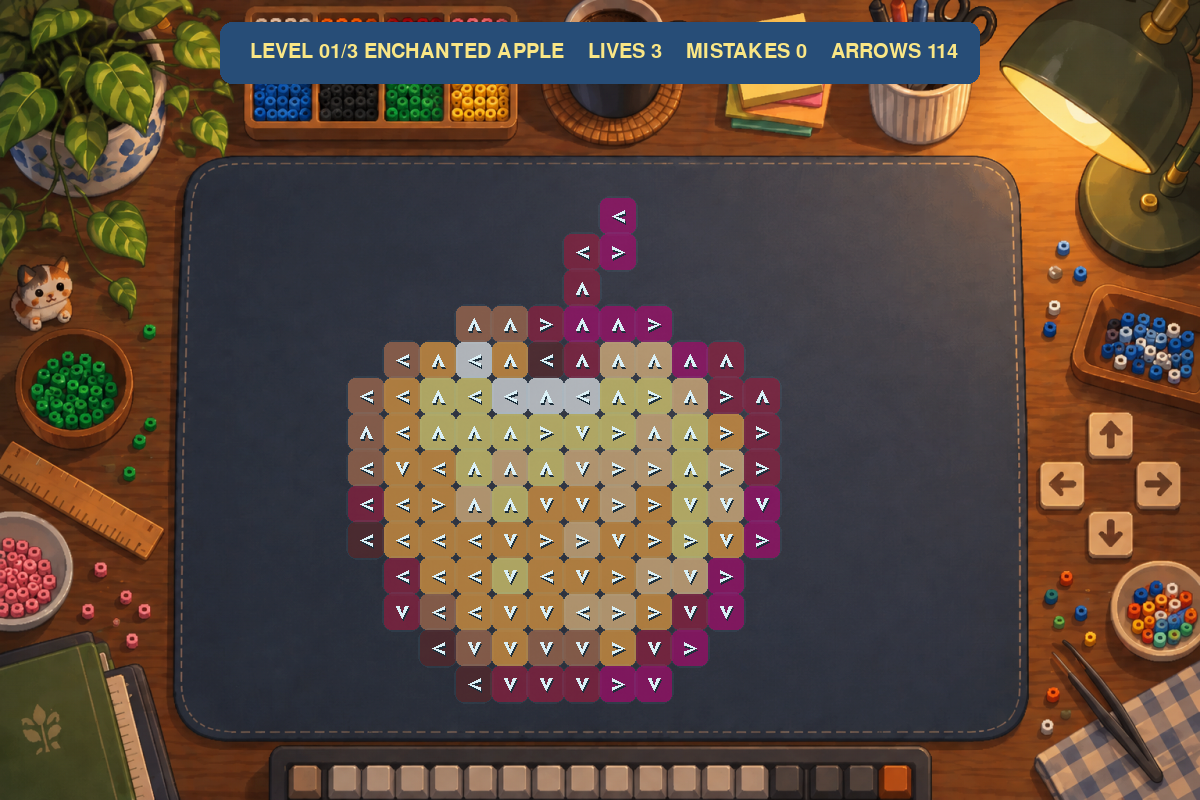
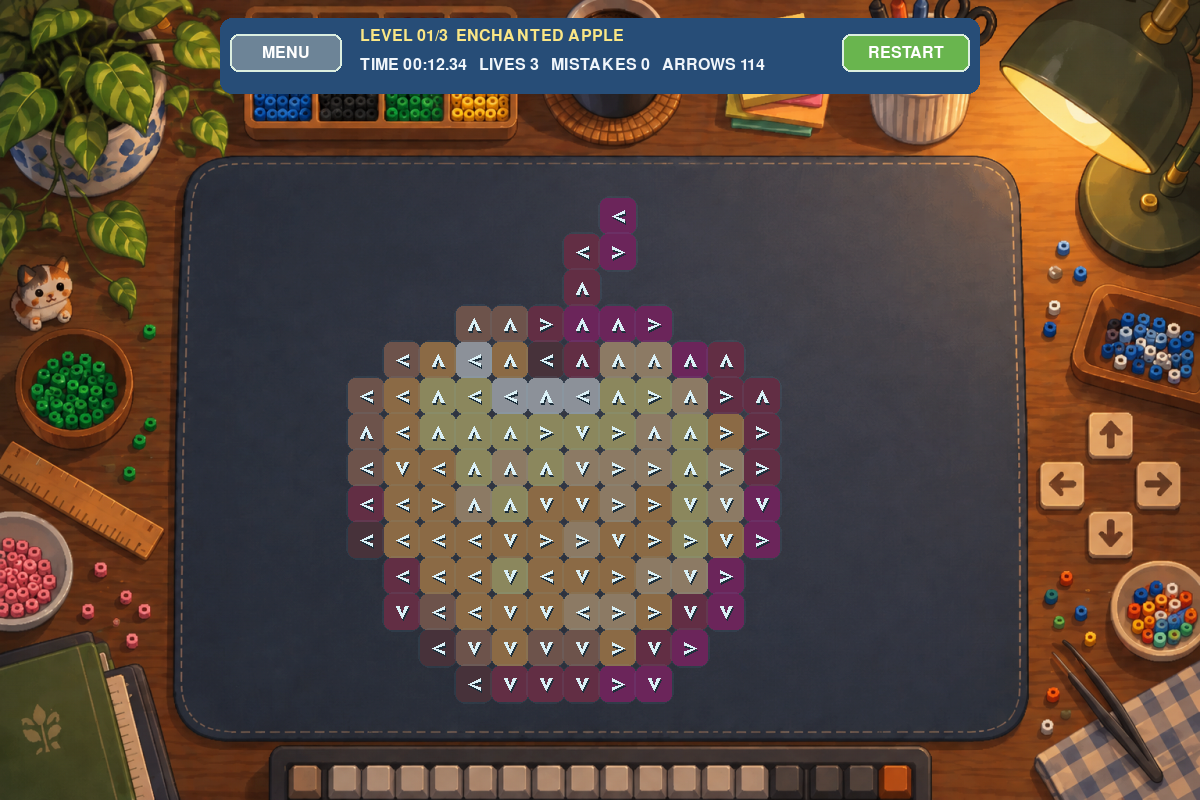
docs: document P1 scoring controls and test evidence

Changed region(s): [[0.3083, 0.4062, 0.6475, 0.8438], [0.185, 0.0, 0.8325, 0.125], [0.4933, 0.2812, 0.5242, 0.3125]]

diff --git a/docs/course-report.md b/docs/course-report.md
@@ -12,14 +12,15 @@
 
 ## 1. 项目展示
 
-项目启动后先显示带装饰箭头棋盘的主界面，点击唯一的 `START GAME` 按钮进入第一关。游戏窗口为 1200×800，中心区域是带隐藏像素颜色的箭头图案；三关依次为 16×16 附魔金苹果、16×16 精灵球和 18×17 月亮 Hello Kitty。成功点击后，箭头沿方向飞出窗口；被阻挡时箭头移动到首个阻挡箭头、撞击变红并回退。
+项目启动后先显示带装饰箭头棋盘的主界面，点击唯一的 `START GAME` 按钮进入第一关。游戏窗口为 1200×800，中心区域是带隐藏像素颜色的箭头图案；三关依次为 16×16 附魔金苹果、16×16 精灵球和 18×17 月亮 Hello Kitty。成功点击后，箭头沿方向飞出窗口；被阻挡时箭头移动到首个阻挡箭头、撞击变红并回退。对局 HUD 显示计时、生命、失误、剩余箭头以及重开/主菜单按钮；通关页显示冻结的时间、失误和星级。
 
 ![游戏运行截图](assets/runtime-gameplay.png)
 
 ![开始界面](assets/runtime-start.png)
 ![通关结果界面](assets/runtime-result.png)
+![失败界面](assets/runtime-failed.png)
 
-建议发布博客时补充：开始界面截图、碰撞变红截图、失败面板截图、最终通关截图，以及一段展示三关切换的 GIF 或视频。
+建议发布博客时补充：碰撞变红截图、最终通关截图，以及一段展示三关切换的 GIF 或视频。
 
 ## 2. 项目介绍
 
@@ -41,6 +42,8 @@
 路径检测从点击位置沿方向增量遍历：向上使用 `(-1, 0)`，向下使用 `(1, 0)`，向左使用 `(0, -1)`，向右使用 `(0, 1)`。遇到第一个箭头就返回 `blocked` 和 blocker 坐标；越过棋盘边界仍未找到箭头则返回 `clear`。
 
 逻辑判定和动画分离。点击成功时 Board 立即清除箭头，因此动画期间仍可以点击其他合法箭头；碰撞动画期间原箭头仍在 Board 中，只有动画结束时才把起点加入 `error_cells`，保证“撞击后变红，回退后保持红色”的时间顺序。
+
+计时由 `Game` 的 `elapsed_seconds` 统一维护，只在 `PLAYING` 状态累加；进入开始页、通关页或失败页后自动冻结，重开、下一关和返回菜单都会清零。每关有固定的三星/二星时间阈值：零失误并在三星时限内为 3 星；一次失误内且在二星时限内为 2 星；其余通关记为 1 星。评分作为不可变通关结果保存，因此不会随着结果页面停留时间继续变化。
 
 关卡的设计采用“先确定图案、再冻结布局”的方式：先用附魔金苹果、精灵球或 Hello Kitty 的颜色掩码确定可见轮廓；生成工具在仍存在的箭头中选择一条无阻挡射线，把该坐标加入清除顺序并记录方向。重复到所有格子被选中后，得到的顺序天然可通关。工具使用固定种子保证可复现，最终的箭头网格和通关顺序都写入 `levels.py` 常量，避免把随机性带进游戏运行时。
 
@@ -65,7 +68,7 @@ python -m pytest -v
 python -m compileall -q main.py src tests
 ```
 
-当前结果：**107 passed**；编译检查通过；Pygame 主循环在 dummy SDL 环境下可以正常启动、绘制并响应退出事件。
+当前结果：**132 passed**；编译检查通过；Pygame 主循环在 dummy SDL 环境下可以正常启动、绘制并响应退出事件。
 
 | 编号 | 测试内容 | 预期结果 | 实际结果 | 是否通过 |
 | --- | --- | --- | --- | --- |
@@ -76,6 +79,9 @@ python -m compileall -q main.py src tests
 | T05 | 失误次数耗尽 | 显示失败并允许重开 | `FAILED` 状态拒绝普通点击，结果按钮重开，测试通过 | 通过 |
 | T06 | 游戏进行中重新开始 | 棋盘和失误次数恢复 | `restart()` 清空动画/错误标记并恢复关卡，测试通过 | 通过 |
 | T07 | 三个拼豆关卡的固定布局 | 每次启动方向相同且存在通关顺序 | 固定种子复算、已冻结顺序逐步清空，测试通过 | 通过 |
+| T09 | 计时开始、冻结与重开 | 仅对局计时；通关/失败后冻结；重开清零 | `Game.elapsed_seconds` 状态转换测试通过 | 通过 |
+| T10 | 时间与失误星级结算 | 3/2/1 星规则正确 | 四种时间/失误组合的参数化测试通过 | 通过 |
+| T11 | 游戏中重开与返回主菜单 | 操作按钮不触发棋盘点击，状态正确复位 | 事件路由与 `return_to_menu()` 测试通过 | 通过 |
 
 ## 6. PSP 表格
 

diff --git a/README.md b/README.md
@@ -8,6 +8,7 @@
 ![游戏界面](docs/assets/runtime-gameplay.png)
 ![月亮 Hello Kitty 关卡](docs/assets/runtime-moon-kitty.png)
 ![通关结果界面](docs/assets/runtime-result.png)
+![失败界面](docs/assets/runtime-failed.png)
 
 ## 功能
 
@@ -17,9 +18,11 @@
 - 成功箭头飞出窗口的动画；
 - 阻挡箭头撞击、变红、回退并保留错误标记；
 - 三次失误机会，HUD 显示生命值、失误次数和剩余箭头；
+- 每关独立计时；开始页不计时，通关或失败后时间冻结，重开时清零；
+- 根据关卡时间与失误次数结算 1～3 星：零失误并在三星时限内为 3 星；一次失误内且在二星时限内为 2 星；其余通关为 1 星；
 - 3 个可以正常通关的关卡：16×16 ENCHANTED APPLE、16×16 BEAD BALL、18×17 MOON KITTY；
 - 三个拼豆关卡都使用固定的像素画颜色掩码和已冻结的方向布局；布局在设计阶段由固定种子工具生成并验证，运行时不会随机变化；
-- 通关后进入下一关，失败后重开当前关，最终通关后可重新开始整局；
+- 对局 HUD 提供 `MENU` 与 `RESTART`；通关页提供下一关、重试当前关和主菜单，失败页提供重开当前关和主菜单；
 - 无外部商业游戏代码、美术、音效或关卡资源。
 
 开始界面和游戏界面共用提交者提供的工作桌图片资源，文件位于 `assets/menu-background.png`；箭头棋盘会始终居中放在桌垫内。箭头使用 Pygame 绘制的居中回旋镖形方向标记，半透明格可透出底层关卡颜色。三关分别根据提交者提供的附魔金苹果、精灵球、月亮 Hello Kitty `.px` 拼豆工程图案制作成固定网格；Hello Kitty 图案在设计阶段等比例压缩为适合游戏桌垫的 18×17 网格。
@@ -42,7 +45,7 @@ python -m pip install -r requirements.txt
 python main.py
 ```
 
-窗口固定为 1200×800。点击 `START GAME` 进入第一关；鼠标左键点击箭头；通关后点击 `NEXT LEVEL`；失败后点击 `RESTART LEVEL`；最终通关后点击 `RESTART GAME`。
+窗口固定为 1200×800。点击 `START GAME` 进入第一关；鼠标左键点击箭头；游戏中可点击 `RESTART` 重开本关或点击 `MENU` 返回主界面；通关后可点击 `NEXT LEVEL`、`RETRY LEVEL` 或 `MAIN MENU`；失败后可点击 `RESTART LEVEL` 或 `MAIN MENU`；最终通关后可点击 `RESTART GAME`。
 
 ## 测试
 
@@ -51,7 +54,7 @@ python -m pytest -v
 python -m compileall -q main.py src tests
 ```
 
-当前自动化测试（107 项）覆盖 Board 规则、四方向路径、三关可通关顺序、固定种子布局、动画阶段、生命值、开始/通关/失败/重开、鼠标事件路由和 UI 布局。
+当前自动化测试（132 项）覆盖 Board 规则、四方向路径、三关可通关顺序、固定种子布局、动画阶段、生命值、计时与星级、开始/通关/失败/重开、菜单导航、鼠标事件路由和 UI 布局。
 
 ## 项目文档
 

diff --git a/docs/test-plan.md b/docs/test-plan.md
@@ -8,5 +8,6 @@
 | T06  | 重开恢复初始状态                 |
 | T07  | 飞行动画期间点击其他合法箭头     |
 | T08  | 连续快速点击不会重复处理同一箭头 |
-| T09  | 星级/计时正确结算                |
+| T09  | 计时与星级正确结算                |
 | T10  | 关卡不存在死锁                   |
+| T11  | 游戏中重新开始与返回主菜单不触发棋盘点击 |
